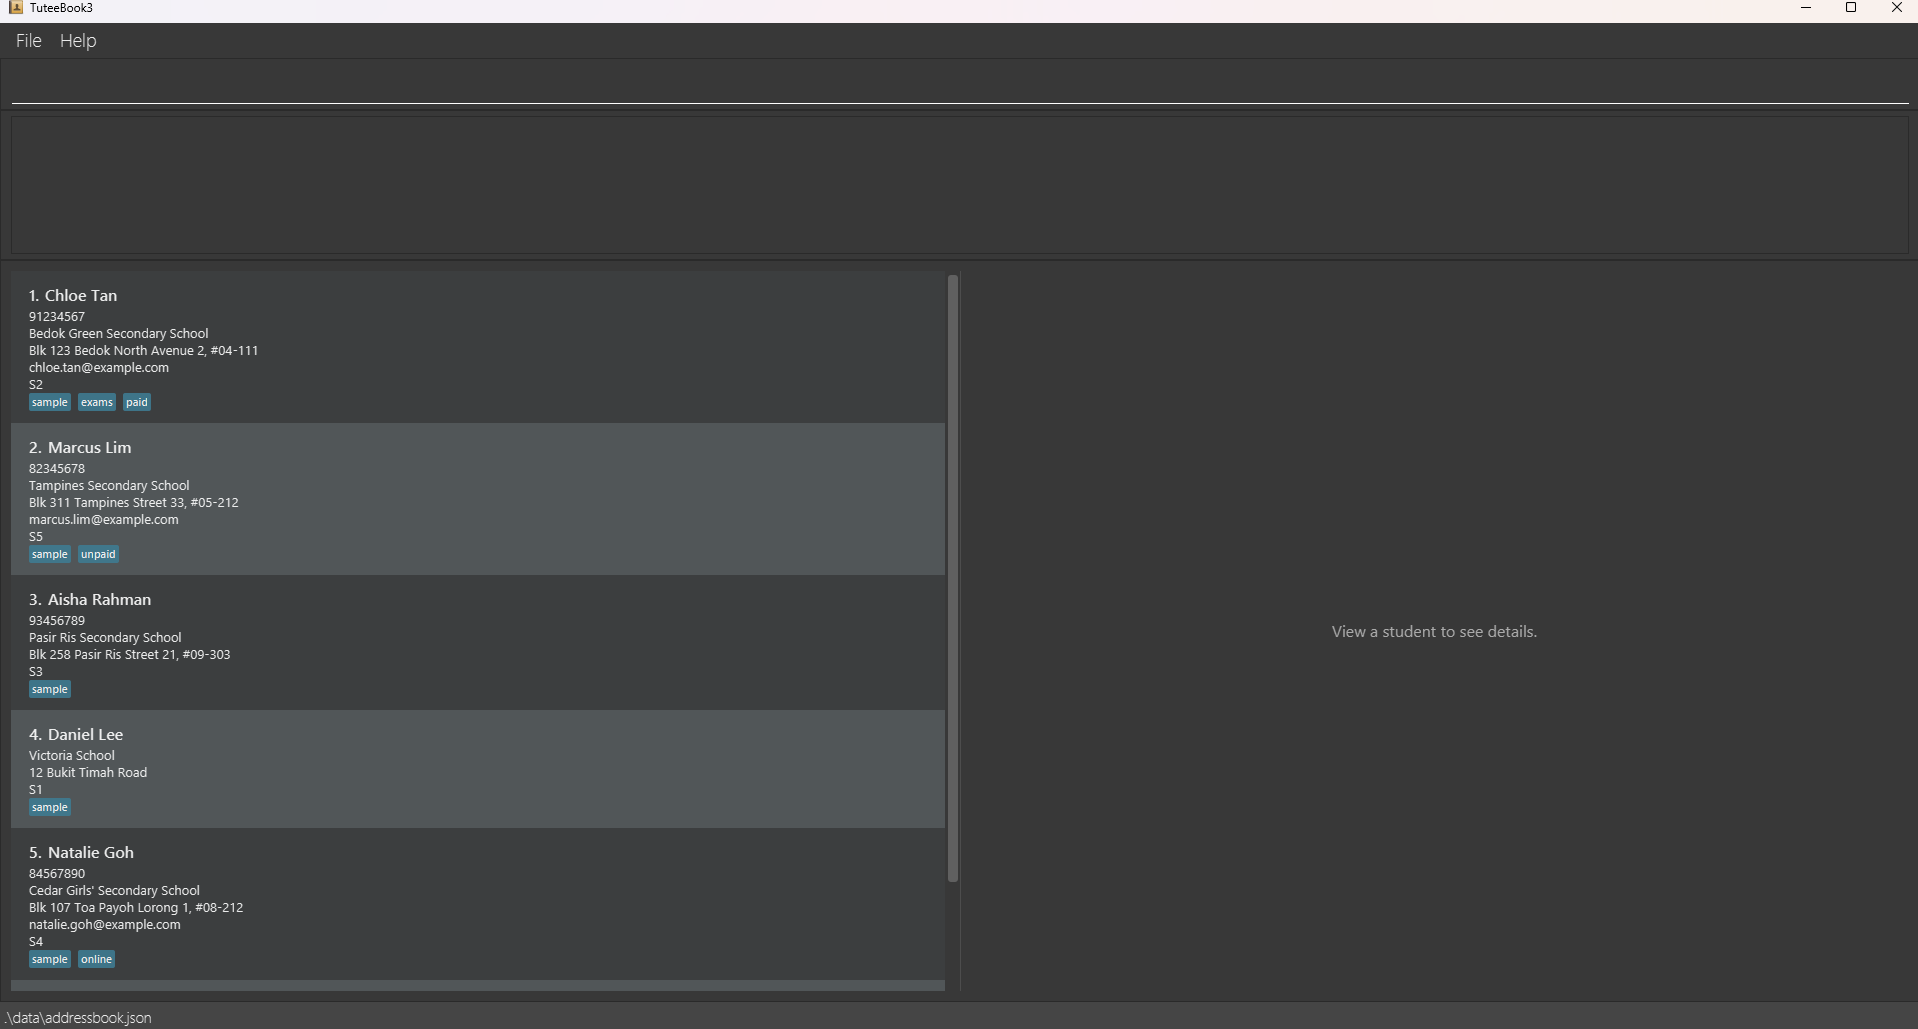
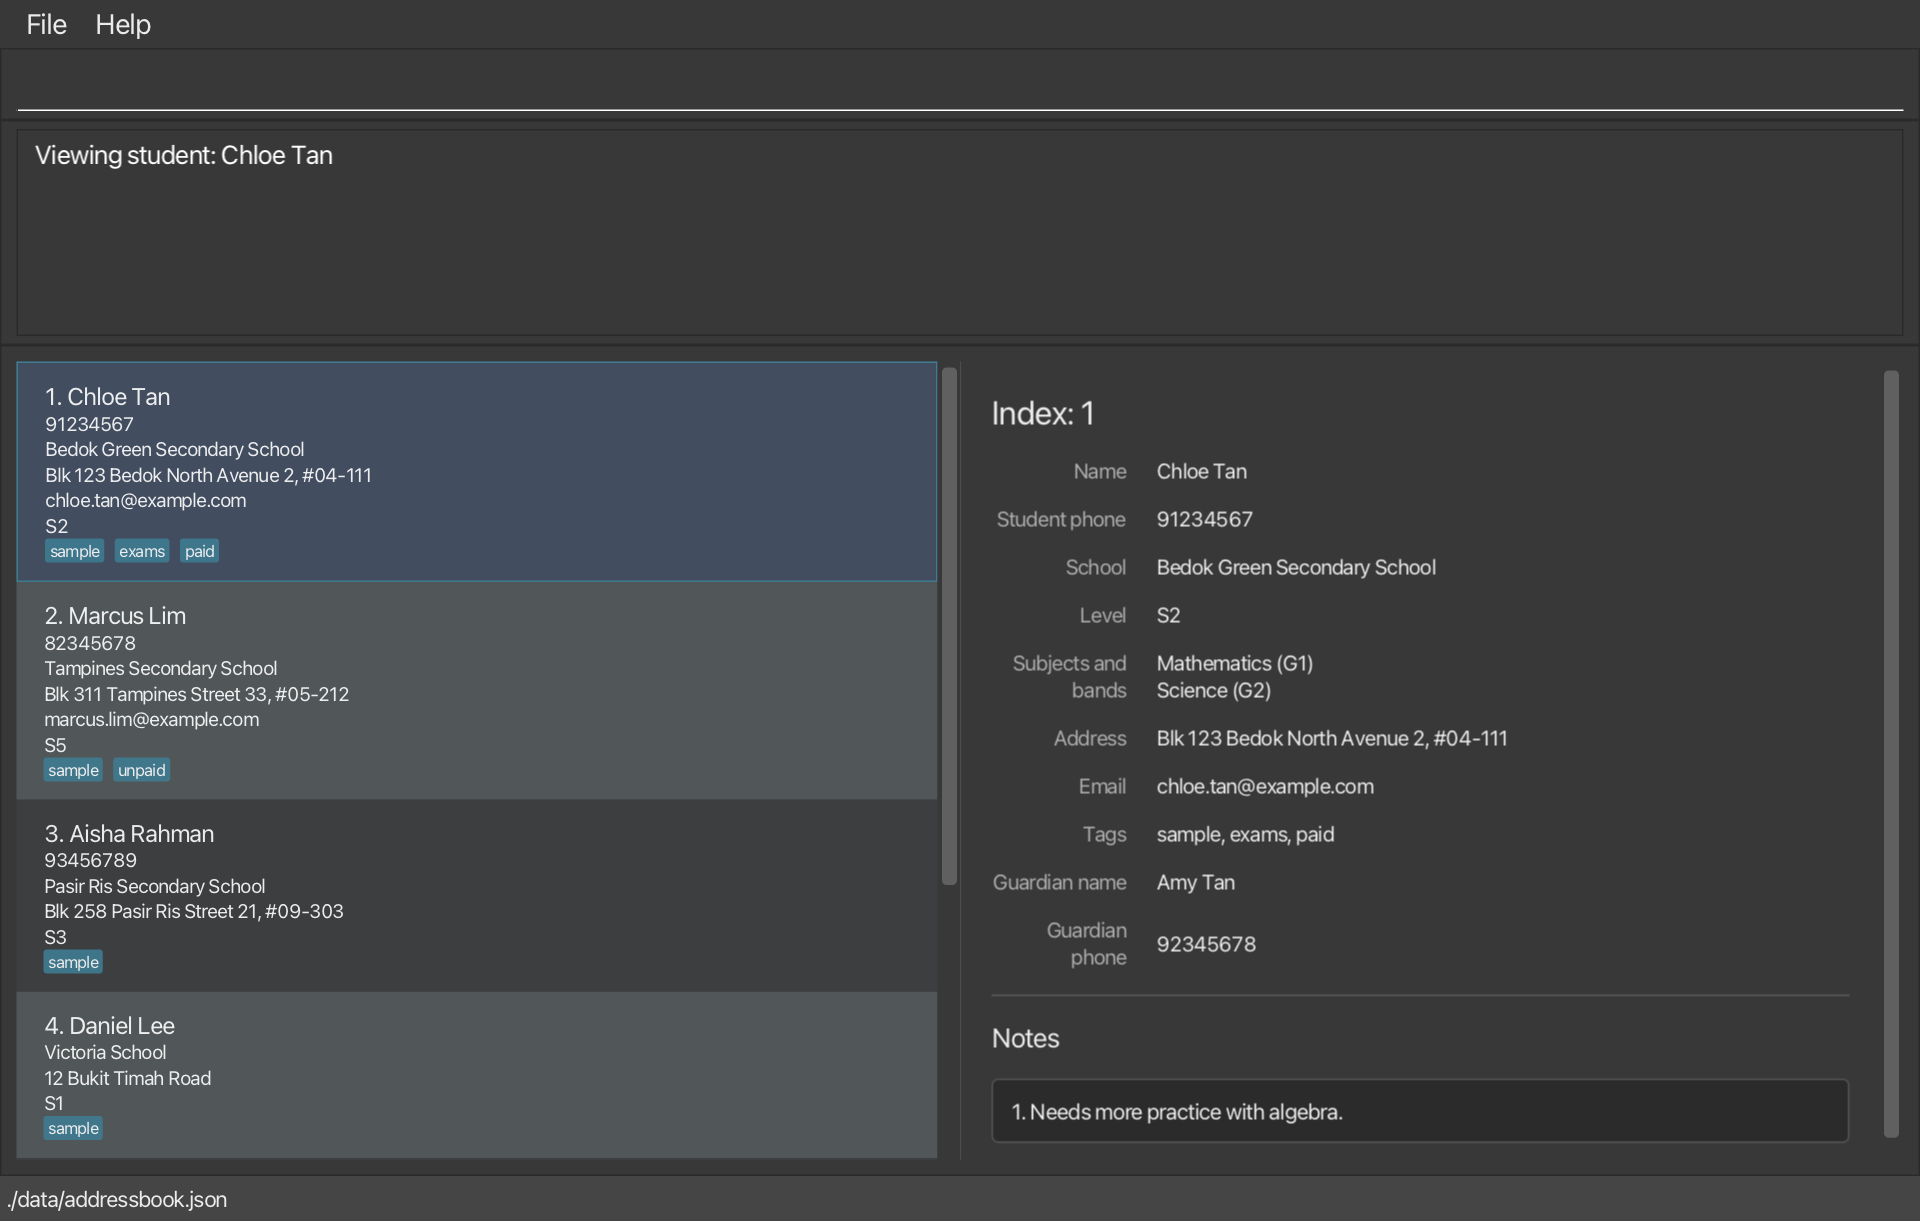
User Guide: Show a student record in Ui.png
Ui.png left the student detail view empty. Show the window after
view 1 instead, and retake the annotated window in the same state.

diff --git a/docs/UserGuide.md b/docs/UserGuide.md
@@ -22,7 +22,7 @@ TuteeBook3 is **optimized for fast typists**. You do almost everything by typing
 1. Copy the file to the folder you want to use as the _home folder_ for TuteeBook3.
 
 1. Open a terminal, `cd` to the folder containing the JAR file, and run `java -jar TuteeBook3.jar`.<br>
-   A GUI similar to the one below should appear in a few seconds. Note how the app contains some sample data.<br>
+   A GUI similar to the one below should appear in a few seconds, with some sample data. The picture shows the app after `view 1`, which opens the first student's record on the right.<br>
    ![Ui](images/Ui.png)
 
 1. Familiarize yourself with TuteeBook3 by trying its commands using the sample data. Type a command in the command box and press Enter to execute it. For example, type **`help`** and press Enter to show the available commands in the result display.<br>
